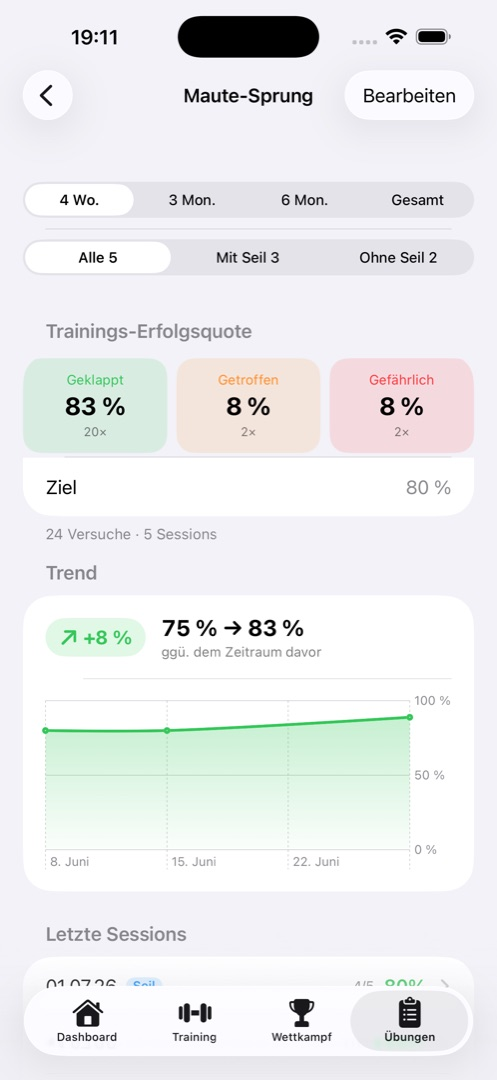
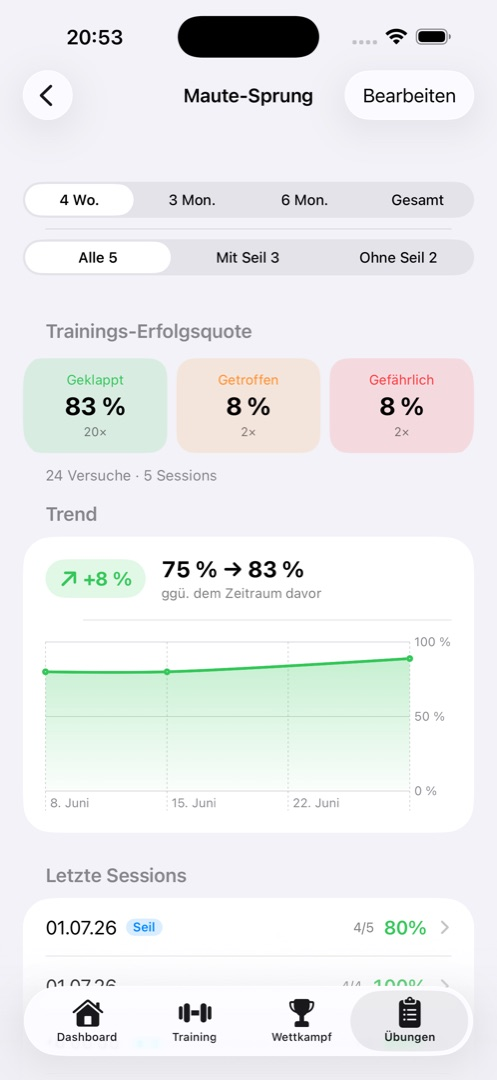
Web: 'Ziel'-Quote entfernt + Reglement-Showcase auf der Landingpage
- 'Ziel'-Anzeige (target_rate) aus ExerciseStatsCard + KI-Insight raus (Funktion
  existiert nicht mehr; Anzeige war Altlast).
- Landing: neue Sektion 'Das komplette Reglement — schon drin' (2000+ Figuren,
  Beispiel-Liste mit Codes/Punkten) + Feature-Eintrag. Aktualisierter Trend-Screenshot ohne 'Ziel'.

diff --git a/src/Landing.jsx b/src/Landing.jsx
@@ -1,7 +1,7 @@
 import React, { useState, useEffect } from 'react';
 import {
   Trophy, ClipboardList, ScanLine, BarChart3, Users, ListChecks,
-  Check, ChevronRight, X, Menu, Smartphone, ShieldCheck, Globe,
+  Check, ChevronRight, X, Menu, Smartphone, ShieldCheck, Globe, BookOpen,
 } from 'lucide-react';
 
 // =============================================================
@@ -102,6 +102,17 @@ const FEATURES = [
   { icon: ListChecks, title: 'Trainingspläne', text: 'Stehende Pläne mit verknüpften Übungen — direkt protokollieren, mit Verlaufs-Protokoll je Plan.' },
   { icon: Users, title: 'Mehrere Trainer & Sportler', text: 'Sportler per Code einladen, Co-Trainer verwalten — alle sehen dieselben Daten in Echtzeit.' },
   { icon: Trophy, title: 'Wettkämpfe & Export', text: 'Wettkämpfe erfassen, taktische Aufwertungen, und Excel-Exporte erstellen.' },
+  { icon: BookOpen, title: 'Komplettes Reglement', text: 'Alle offiziellen Kunstrad-Figuren mit UCI-Code und Punkten sind hinterlegt — Übung suchen, antippen, fertig.' },
+];
+
+// Beispiel-Figuren aus dem hinterlegten UCI-Reglement (Code · Name · Punkte).
+const REGLEMENT_SAMPLE = [
+  { c: '1104a', n: 'Frontlenkerstand HR.', p: '4,0' },
+  { c: '1124c', n: 'Lenkerstand', p: '8,8' },
+  { c: '1186a', n: 'Maute-Sprung', p: '7,3' },
+  { c: '1249a', n: 'Kehrstandsteiger rw. HR.', p: '5,5' },
+  { c: '1237a', n: 'Steiger rw.', p: '4,4' },
+  { c: '1217b', n: 'Dornstandsteiger rw.', p: '6,0' },
 ];
 
 const PREVIEWS = [
@@ -213,6 +224,25 @@ function Home() {
               <p className="text-[14px] text-slate-600 leading-relaxed">{f.text}</p>
             </div>
           ))}
+        </div>
+      </Section>
+
+      <Section className="pb-16 sm:pb-24">
+        <div className="bg-white rounded-3xl border border-slate-200/70 p-6 sm:p-8 shadow-[0_1px_3px_rgba(0,0,0,0.04)] grid md:grid-cols-2 gap-8 items-center">
+          <div>
+            <div className="inline-flex items-center gap-2 text-[12px] font-semibold text-white rounded-full px-3 py-1 mb-4" style={{ background: ACCENT }}>2000+ Figuren</div>
+            <h2 className="text-[26px] sm:text-[32px] font-bold tracking-tight leading-tight">Das komplette Reglement — schon drin.</h2>
+            <p className="mt-3 text-[15px] sm:text-[16px] text-slate-600 leading-relaxed">Alle offiziellen Kunstrad-Figuren mit UCI-Code und Punktzahl sind hinterlegt. Übung suchen, antippen — fertig. Kein manuelles Anlegen, kein Punkte-Tabellen-Wälzen.</p>
+          </div>
+          <div className="rounded-2xl border border-slate-200/70 overflow-hidden bg-slate-50/50">
+            {REGLEMENT_SAMPLE.map((f, i) => (
+              <div key={f.c} className={'flex items-center gap-3 px-4 py-3 ' + (i > 0 ? 'border-t border-slate-200/60' : '')}>
+                <span className="text-[12px] font-mono text-slate-400 tabular-nums w-14 shrink-0">{f.c}</span>
+                <span className="flex-1 text-[14px] font-medium truncate">{f.n}</span>
+                <span className="text-[13px] font-semibold tabular-nums shrink-0" style={{ color: ACCENT }}>{f.p}</span>
+              </div>
+            ))}
+          </div>
         </div>
       </Section>
 

diff --git a/src/ArtCycCoach.jsx b/src/ArtCycCoach.jsx
@@ -2941,7 +2941,6 @@ function generateExerciseInsight(exercise, sessions, t, programs, competitions) 
   const fail    = entries.filter(e => e === 'fail').length;
   const third   = entries.filter(e => e === 'third').length;
   const rate = total > 0 ? Math.round((success / total) * 100) : 0;
-  const target = typeof exercise.target_rate === 'number' ? exercise.target_rate : null;
 
   // Edge cases — sehr wenig Daten
   // Edge-Cases: wenige/keine Trainingsdaten — aber falls Wettkampf-Daten
@@ -3040,13 +3039,6 @@ function generateExerciseInsight(exercise, sessions, t, programs, competitions) 
     if (daysSinceLast != null) {
       if      (daysSinceLast > 60) lines.push(t('aiInsight.veryStale', { days: daysSinceLast }));
       else if (daysSinceLast > 14) lines.push(t('aiInsight.staleDays', { days: daysSinceLast }));
-    }
-
-    // 6) Ziel-Quote
-    if (target != null) {
-      if      (rate >= target)          lines.push(t('aiInsight.targetReached', { target }));
-      else if (target - rate <= 5)      lines.push(t('aiInsight.targetClose',   { gap: target - rate, target }));
-      else                              lines.push(t('aiInsight.targetFar',     { gap: target - rate, target }));
     }
 
     // 7) Risiko-Profil bei 3-Kategorien-Übungen
@@ -6799,11 +6791,7 @@ function StatCard({ icon: Icon, label, value, sub, color = 'sky', size = 'normal
 }
 
 function ExerciseStatsCard({ ex, total, success, fail, third, rate, riskRate, sessions, trend }) {
-  const target = typeof ex.target_rate === 'number' ? ex.target_rate : null;
-  const belowTarget = target !== null && rate < target;
-  const aboveTarget = target !== null && rate >= target;
-  const cardClass = 'bg-white rounded-2xl border shadow-[0_1px_2px_rgba(0,0,0,0.04)] p-5 ' +
-    (belowTarget ? 'border-rose-200 ring-1 ring-rose-100' : 'border-slate-200/60');
+  const cardClass = 'bg-white rounded-2xl border border-slate-200/60 shadow-[0_1px_2px_rgba(0,0,0,0.04)] p-5';
   return (
     <div className={cardClass}>
       <div className="flex items-start justify-between gap-3 mb-4">
@@ -6820,24 +6808,14 @@ function ExerciseStatsCard({ ex, total, success, fail, third, rate, riskRate, se
                 3-Status: {ex.third_label}
               </span>
             )}
-            {target !== null && (
-              <span className={'text-xs font-medium px-2 py-0.5 rounded-full flex items-center gap-1 ' +
-                (aboveTarget ? 'bg-emerald-100 text-emerald-700' : 'bg-rose-100 text-rose-700')}>
-                <Target size={11} /> Ziel {target}%
-              </span>
-            )}
           </div>
           <div className="text-xs text-slate-500 mt-0.5">
             {sessions} Sessions · {total} Serien
           </div>
         </div>
         <div className="text-right shrink-0">
-          <div className={'text-3xl font-bold ' + (belowTarget ? 'text-rose-700' : aboveTarget ? 'text-emerald-700' : 'text-slate-900')}>{rate}%</div>
-          <div className="text-xs text-slate-500">
-            {target !== null
-              ? (rate >= target ? 'über Ziel ✓' : (target - rate) + '% unter Ziel')
-              : 'Quote'}
-          </div>
+          <div className="text-3xl font-bold text-slate-900">{rate}%</div>
+          <div className="text-xs text-slate-500">Quote</div>
         </div>
       </div>
 